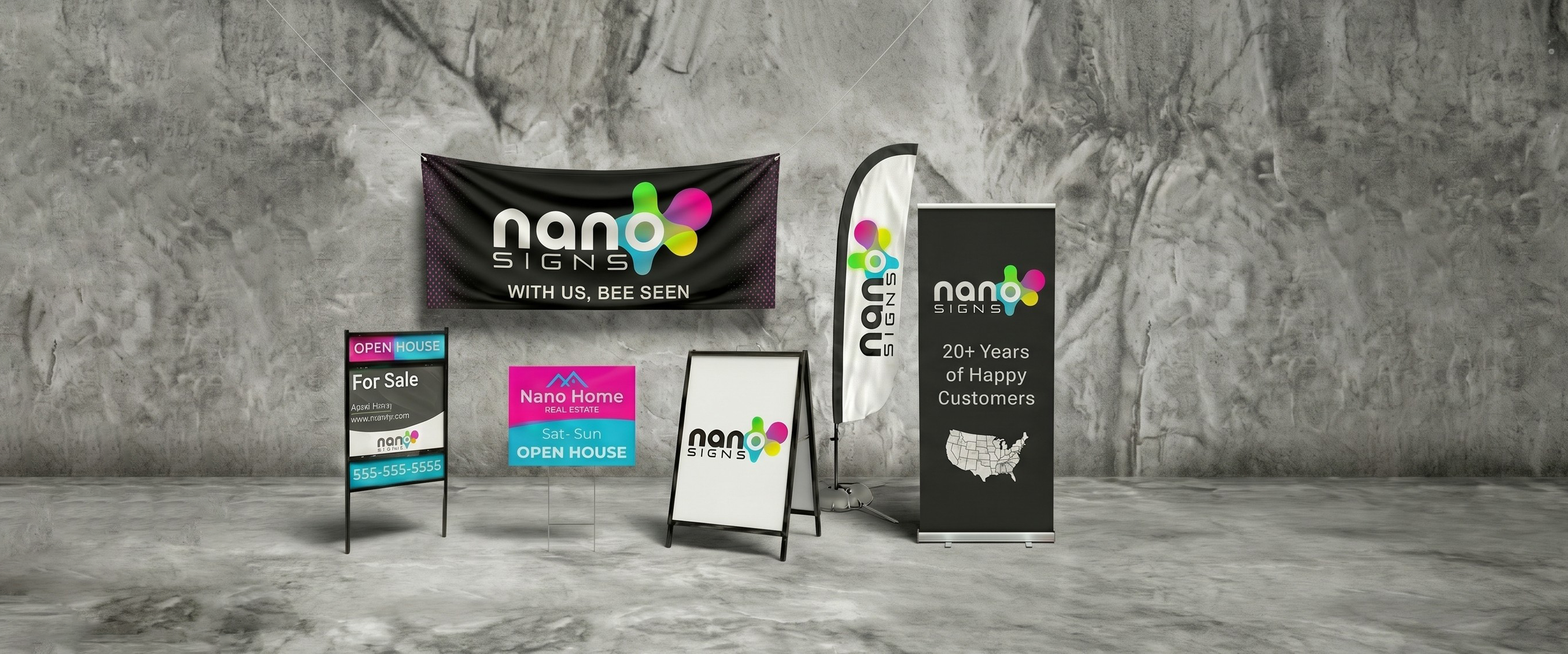
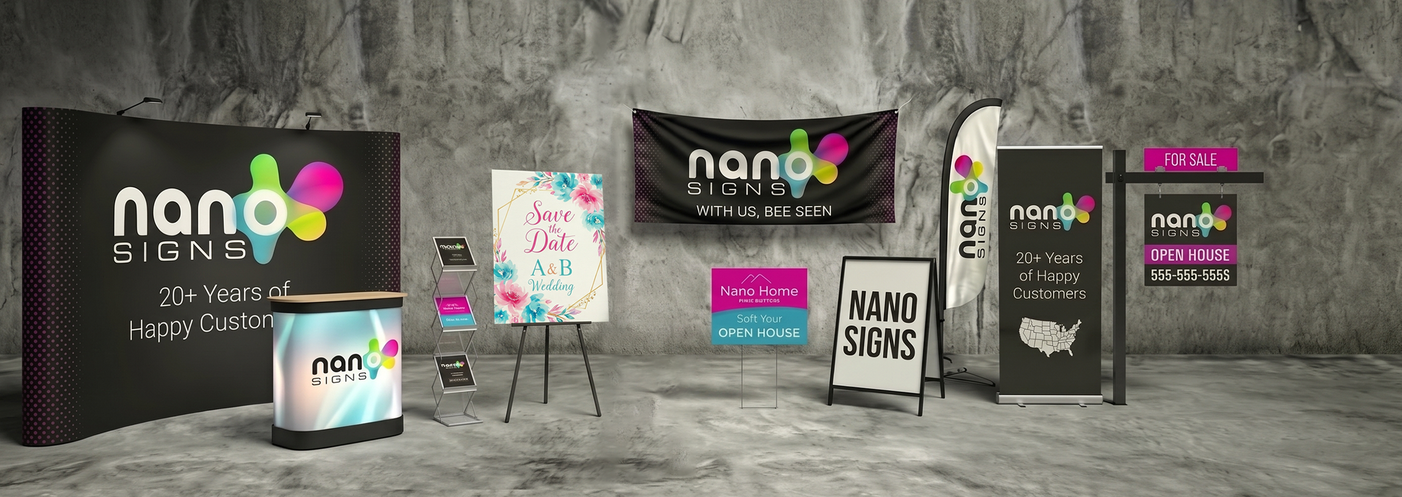
Update hero image to latest PNG and remove all text overlay elements from HeroSection

diff --git a/src/components/HeroSection.tsx b/src/components/HeroSection.tsx
@@ -3,40 +3,14 @@ import Link from "next/link";
 
 export function HeroSection() {
   return (
-    <section className="w-full relative overflow-hidden min-h-[420px] md:min-h-[540px]">
-      {/* Background image — no overlay, stretches edge-to-edge */}
-      <div className="absolute inset-0">
-        <Image
-          src="/images/hero-image.png"
-          alt="Nano Signs — Custom banners, yard signs, roll-up displays and more"
-          fill
-          className="object-cover object-center"
-          priority
-        />
-      </div>
-
-      {/* Content — no background card, aligned to the right on all screens */}
-      <div className="relative z-10 flex justify-end items-center min-h-[360px] sm:min-h-[440px] md:min-h-[540px] w-full px-6 md:px-16 lg:px-24 xl:px-32">
-        <div className="w-[85%] sm:w-[70%] md:w-[50%] lg:w-[42%] xl:w-[35%] max-w-[440px] p-0 text-right">
-          <h1 className="font-poppins text-4xl sm:text-5xl md:text-6xl lg:text-7xl xl:text-8xl font-black mb-3 leading-tight drop-shadow-md">
-            <span
-              style={{
-                background: "linear-gradient(135deg, #ff2d78, #b020ff, #00e5ff)",
-                WebkitBackgroundClip: "text",
-                WebkitTextFillColor: "transparent",
-                backgroundClip: "text",
-              }}
-            >
-              Nano Signs
-            </span>
-          </h1>
-
-          <p className="font-poppins text-sm sm:text-base md:text-lg lg:text-xl font-semibold text-white leading-relaxed drop-shadow-md">
-            Custom banners, yard signs, vehicle wraps &amp; more —{" "}
-            <span className="text-[#00e5ff] font-bold">fast turnaround</span> &amp; built to last.
-          </p>
-        </div>
-      </div>
+    <section className="w-full relative overflow-hidden h-[260px] sm:h-[380px] md:h-[480px] lg:h-[580px] xl:h-[660px]">
+      <Image
+        src="/images/hero-image.png"
+        alt="Nano Signs — Custom banners, yard signs, roll-up displays and more"
+        fill
+        className="object-cover object-center"
+        priority
+      />
     </section>
   );
 }
